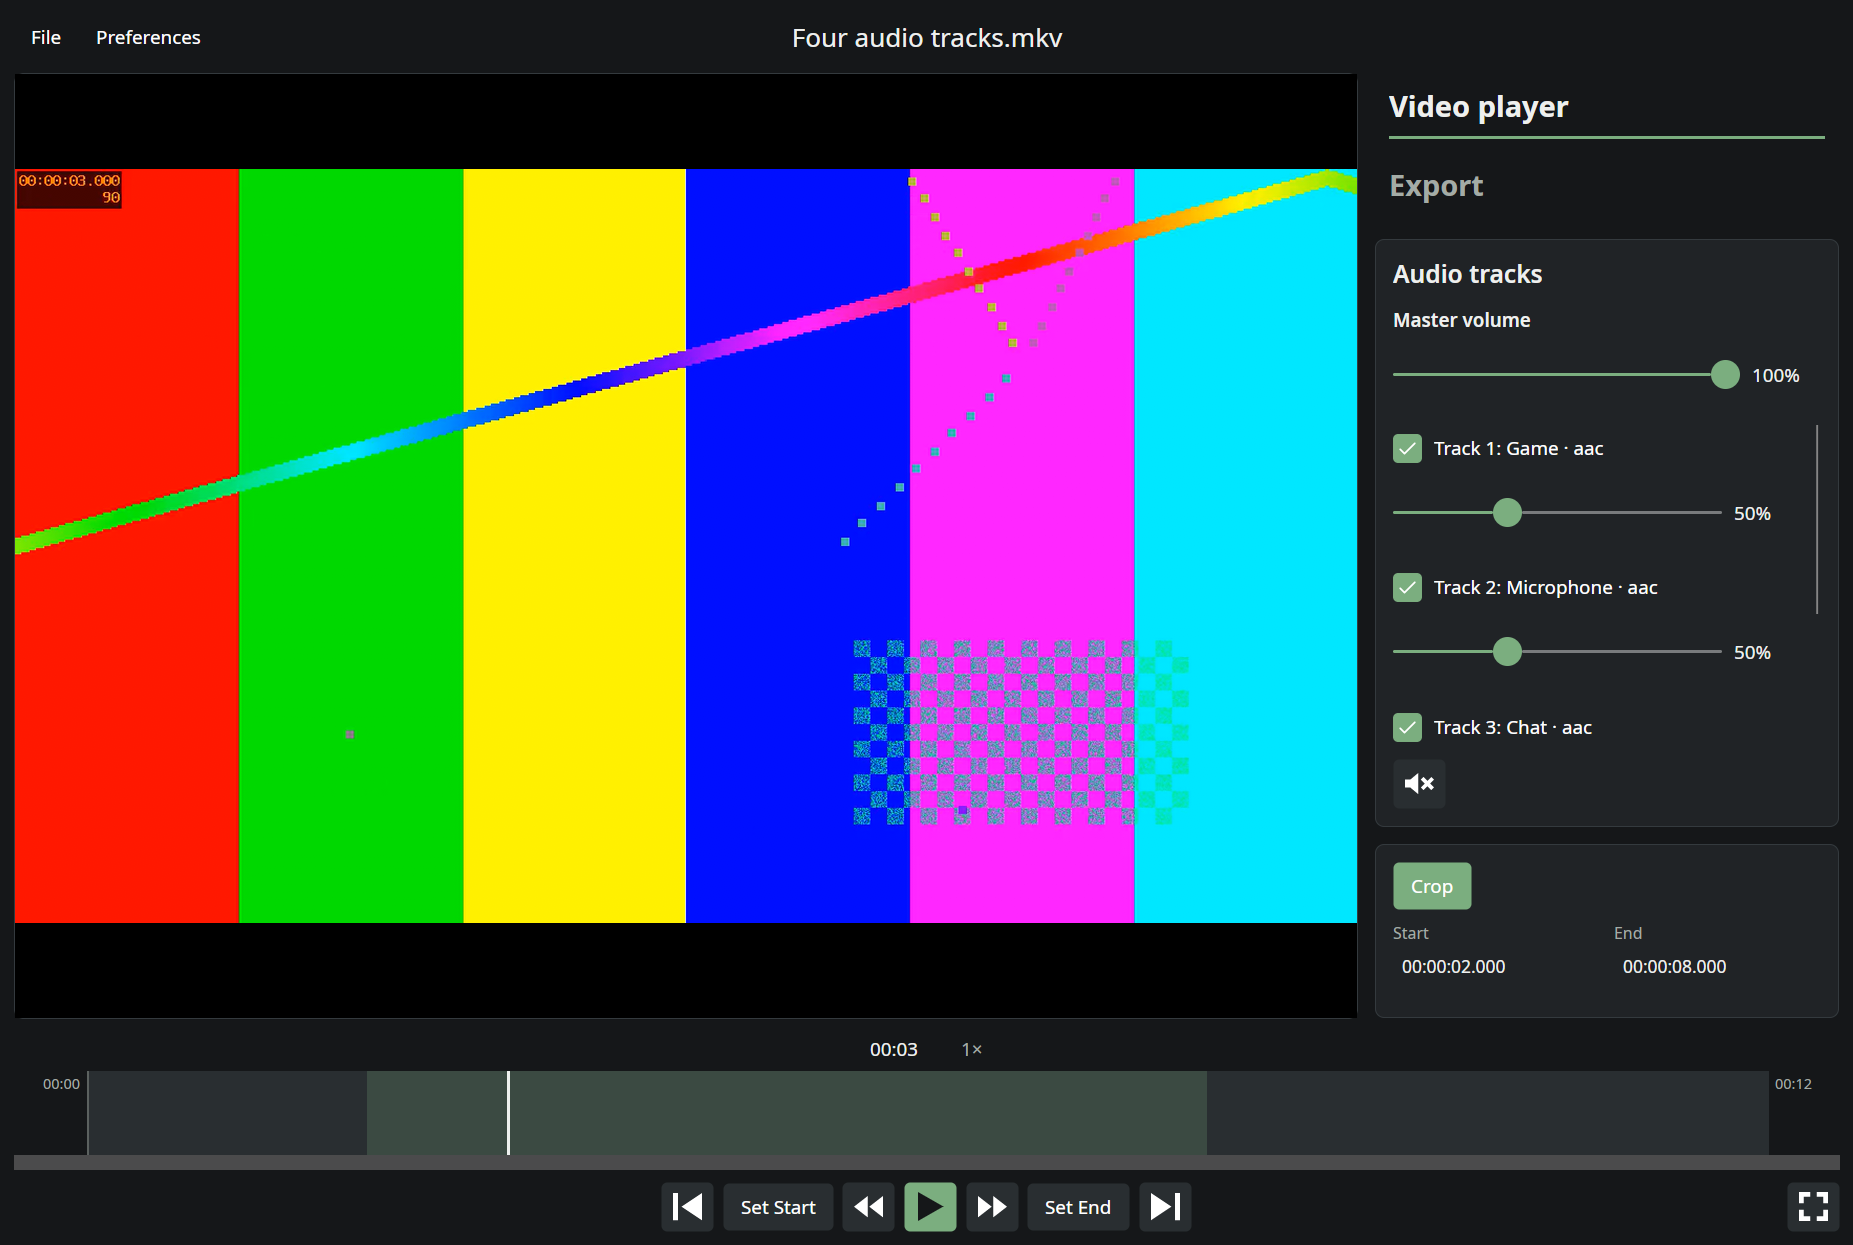
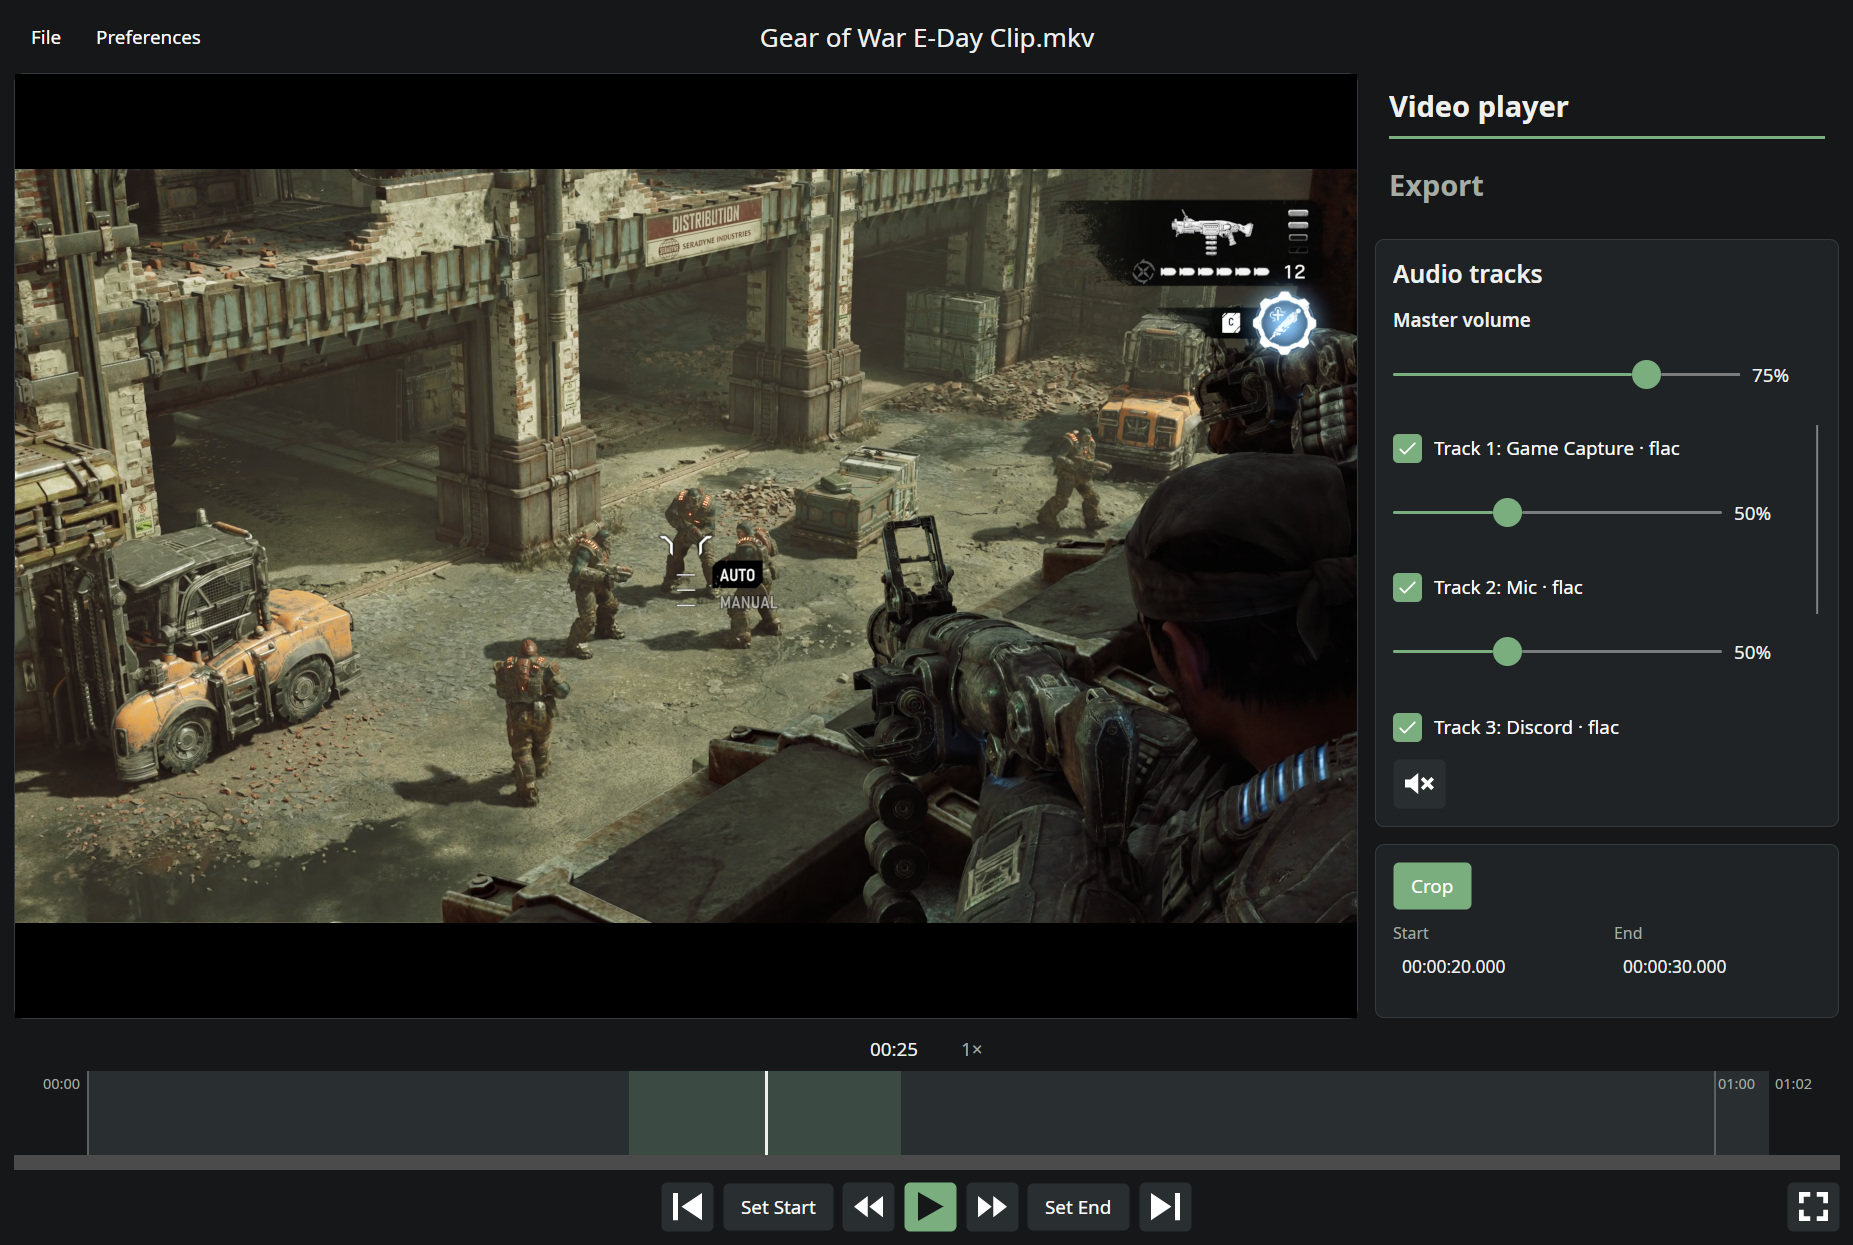
docs: showcase gameplay at 25 seconds in player screenshot

diff --git a/docs/DEVELOPMENT.md b/docs/DEVELOPMENT.md
@@ -65,6 +65,12 @@ This installs Dino Player in your applications menu with its icon and matches ru
 
 Portable build profiles are in `src/DinoPlayer.MP/Properties/PublishProfiles`. To recreate the portable executables, use `-p:PublishProfile=Portable-Windows` or `-p:PublishProfile=Portable-Linux`; Linux additionally requires `-p:DinoPlayerMpvBundleDirectory="/path/to/matching/native/libraries"`. The verified Linux native inputs must be placed in `publish/portable-linux-x64/lib`; they are not included in a source checkout. Copy the external mpv and FFmpeg binaries into their portable staging directories, then run `python3 scripts/package-portable.py` to create and verify both ZIPs. The native dependency set inherited from v1.5.1 is recorded in `packaging/dependencies-v1.5.1.json`; the filename identifies that dependency baseline, not the current app version. Some native inputs have only provenance/hashes recorded and must be supplied separately. Do not substitute a moving `latest` download if its hash differs. The packaging script reads the app version from the project file, verifies the supplied native inputs, and includes the required files, GPL license, third-party notices, and fresh default preferences. Debug symbols and runtime logs are excluded. Python 3.11 or later is required.
 
+## Documentation screenshots
+
+The README and user guide share `docs/images/player.png`: the approved gameplay capture from `Gear of War E-Day Clip.mkv`, paused at **00:25** with a **00:20–00:30** crop selected. The source clip is supplied locally and is not included in the repository. The Export screenshot, `docs/images/export.png`, uses generated multi-track test media.
+
+To refresh the player screenshot, use a 1280×860 logical window with the audio sidebar and timeline visible, pause the gameplay clip at 25 seconds, and select the 20–30 second crop. Capture the native application window so the embedded video is included; an Avalonia render-only capture can leave the video area black. Preview the replacement before updating the documentation image.
+
 ## Test media
 
 With FFmpeg installed, create a small four-audio-track fixture for playback and export checks:

diff --git a/docs/USER_GUIDE.md b/docs/USER_GUIDE.md
@@ -32,6 +32,10 @@ The queue is stored only for the current session. Closing with unfinished jobs o
 
 ## Player UI and appearance
 
+The player below shows gameplay paused at **00:25**, with a **00:20–00:30** crop selected. The highlighted timeline region marks the portion to export when Crop is enabled.
+
+![Dino Player showing gameplay paused at 00:25 with a 20–30 second crop](images/player.png)
+
 With no video open, click the import prompt, drop a video on it, or use **File → Open**. The right sidebar contains workspace tabs, a scrolling audio panel, and a separate crop panel. The fullscreen control is below the timeline; F11 and double-clicking the video also toggle fullscreen.
 
 New imports stay paused at the beginning while saved audio-track settings are restored and the mix is applied. Playback waits for mpv to finish preparing the starting frame, then begins from 00:00, or remains paused if the player was already paused. Controls become available after setup. Recreating the native video surface restores the previous position and pause state. Both timelines refresh directly from mpv's seek/restart events, so jumps appear promptly even between regular UI refreshes.

diff --git a/README.md b/README.md
@@ -9,7 +9,7 @@ A Windows and Linux video player for reviewing gameplay, choosing audio tracks, 
 [![Build and tests](https://github.com/DinoRex4848/Dino-Player/actions/workflows/ci.yml/badge.svg)](https://github.com/DinoRex4848/Dino-Player/actions/workflows/ci.yml)
 [Download v1.5.2](https://github.com/DinoRex4848/Dino-Player/releases/tag/v1.5.2) · [User guide](docs/USER_GUIDE.md) · [Development](docs/DEVELOPMENT.md) · [Changelog](CHANGELOG.md)
 
-![Dino Player with generated multi-track test media](docs/images/player.png)
+![Dino Player showing gameplay paused at 00:25](docs/images/player.png)
 
 ## What you can do
 

diff --git a/CHANGELOG.md b/CHANGELOG.md
@@ -1,5 +1,11 @@
 # Changelog
 
+## Unreleased
+
+### Documentation
+
+- Replace the player screenshot with approved gameplay paused at 00:25, and update the user guide and screenshot capture notes.
+
 ## 1.5.2 — 2026-10-18
 
 ### Fixed
